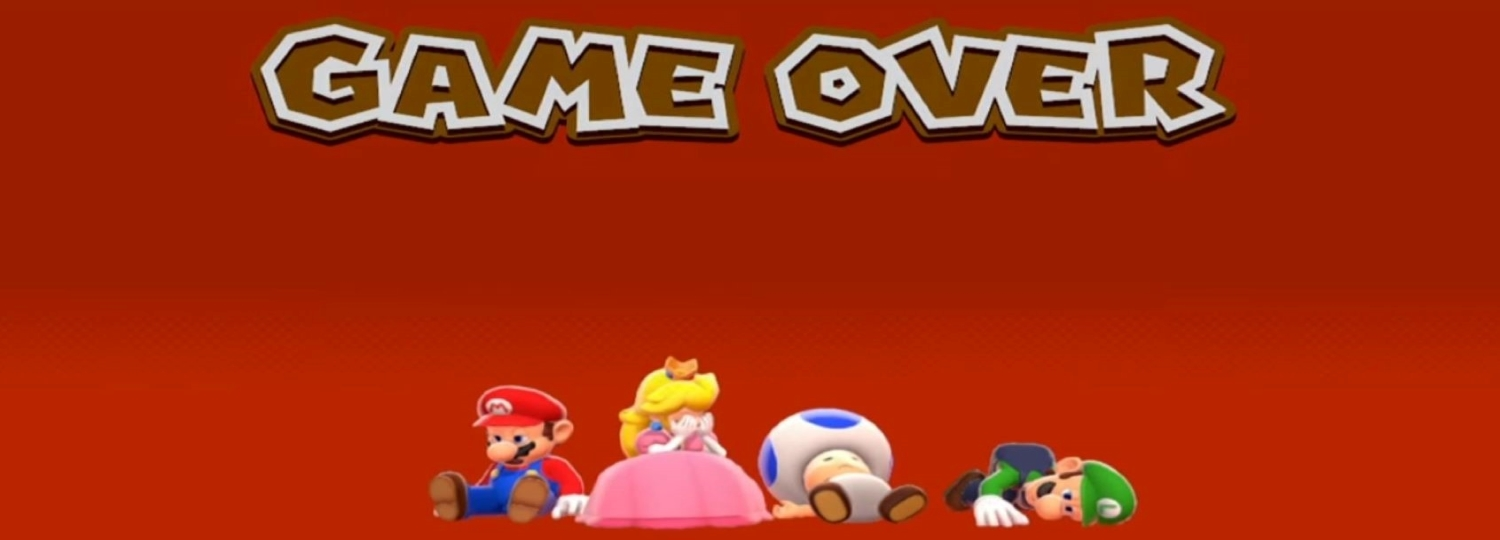
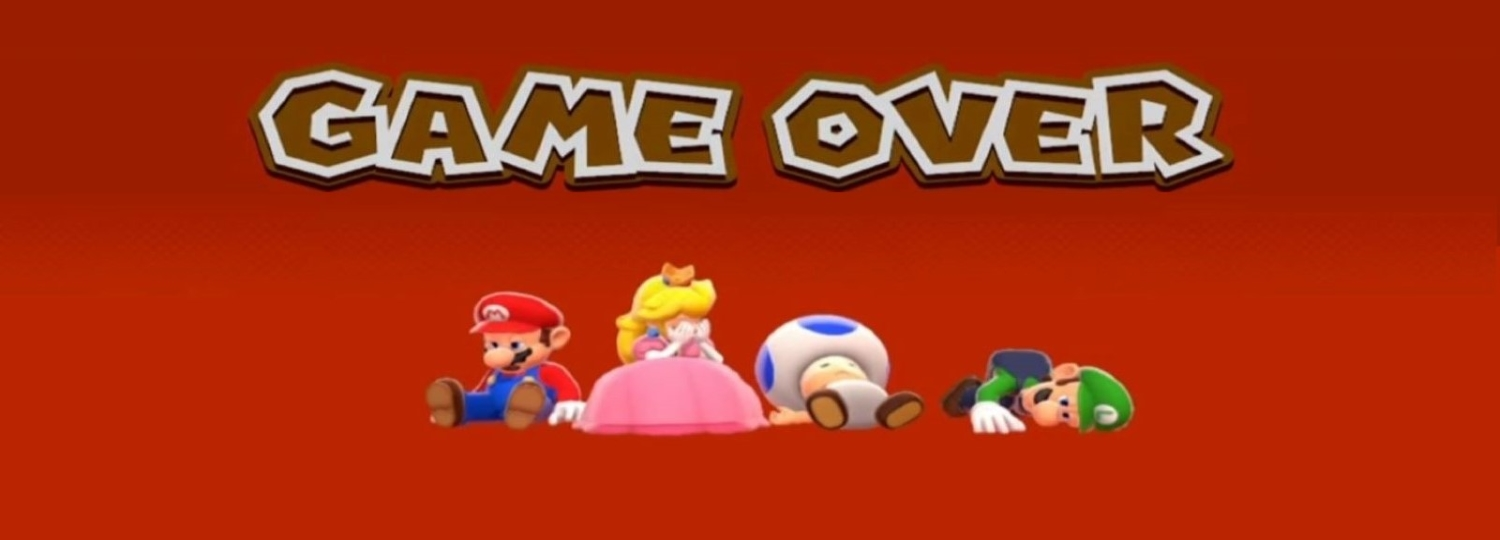
게임오버

diff --git a/project1_supermario/src/project_supermario_2/SuperMarioFrame.java b/project1_supermario/src/project_supermario_2/SuperMarioFrame.java
@@ -16,6 +16,7 @@ public class SuperMarioFrame extends JFrame {
 	ImageIcon changIcon = new ImageIcon(changImg);
 
 	private JPanel panel;
+	private JLabel label;
 
 	private JLabel bgMap;
 	private Player player;
@@ -32,32 +33,23 @@ public class SuperMarioFrame extends JFrame {
 		initData();
 		setInitLayout();
 		initListener();
-		new Thread(new Runnable() {
-
-			@Override
-			public void run() {
-				System.out.println("죽음");
-				gameOver();
-			}
-		}).start();
 	}
 
 	private void initData() {
 		panel = new JPanel();
-		player = new Player();
+		player = new Player(this);
 		monster1 = new Monster(200, 410);
 		monster2 = new Monster(700, 410);
 		monster3 = new Monster(1100, 410);
 		bgMap = new JLabel(changIcon);
 		itemBox = new Item(player);
-
+		label = new JLabel(new ImageIcon("images/gameover.jpg"));
 		setSize(1500, 540);
 		setLocation(0, 0);
 		setVisible(true);
 		setResizable(true);
 		setLocationRelativeTo(null);
 		setDefaultCloseOperation(JFrame.EXIT_ON_CLOSE);
-
 	}
 
 	private void setInitLayout() {
@@ -73,17 +65,15 @@ public class SuperMarioFrame extends JFrame {
 		bgMap.add(monster1);
 		bgMap.add(monster2);
 		bgMap.add(monster3);
+		
+	}
+	
+	public void showGameoverImage() {
+		bgMap.add(label);
+		label.setBounds(-bgMap.getX(),0, 1500, 540);
+//		System.exit(0);
 	}
 
-	public void gameOver() {
-		while (true) {
-
-			if (player.isDie || monster1.playerCrash()) {
-				System.out.println(player.isDie);
-				bgMap.setIcon(new ImageIcon("images/gameover.jpg"));
-			}
-		}
-	}
 
 	private void initListener() {
 		addKeyListener(new KeyAdapter() {
@@ -177,6 +167,7 @@ public class SuperMarioFrame extends JFrame {
 					break;
 				}
 			}
+			
 		});
 	}
 

diff --git a/project1_supermario/src/project_supermario_2/Monster.java b/project1_supermario/src/project_supermario_2/Monster.java
@@ -21,6 +21,7 @@ public class Monster extends JLabel {
 	private ImageIcon enemy;
 	Player player;
 	private BackgroundMapService mapStervice;
+	private SuperMarioFrame mContext;
 
 	public Monster(int monsterX, int monsterY) {
 		this.monsterX = monsterX;
@@ -39,12 +40,9 @@ public class Monster extends JLabel {
 		enemyL = new ImageIcon("images/enemy_left.png");
 		enemyR = new ImageIcon("images/enemy_right.png");
 		enemy = enemyR;
-		player = new Player();
 	}
 
 	private void initSetting() {
-//		monsterX = 0;
-//		monsterY = 0;
 
 		setIcon(enemyR);
 		setSize(30, 30);
@@ -64,7 +62,6 @@ public class Monster extends JLabel {
 			public void run() {
 				setIcon(enemy);
 				while (true) {
-//					System.out.println(leftCrash);
 					if (leftCrash) {
 						direction = true;
 					}
@@ -75,12 +72,12 @@ public class Monster extends JLabel {
 						setIcon(enemyR);
 						monsterX = monsterX + 10;
 						setLocation(monsterX, monsterY);
-						playerCrash();
+//						playerCrash();
 					} else {
 						setIcon(enemyL);
 						monsterX = monsterX - 10;
 						setLocation(monsterX, monsterY);
-						playerCrash();
+//						playerCrash();
 
 					}
 					try {
@@ -98,6 +95,7 @@ public class Monster extends JLabel {
 	public boolean playerCrash() {
 		if (player.getX() - monsterX < 30 && monsterX - player.getX() < 30 && player.getY() - monsterY < 50) {
 			System.out.println("게임 종료");
+			
 			return true;
 		}
 		return false;

diff --git a/project1_supermario/src/project_supermario_2/Player.java b/project1_supermario/src/project_supermario_2/Player.java
@@ -35,6 +35,7 @@ public class Player extends JLabel implements Moveable {
 	private ImageIcon playerL2;
 	private ImageIcon jumpR;
 	private ImageIcon jumpL;
+	private SuperMarioFrame mContext;
 
 	private BackgroundMapService service;
 
@@ -44,7 +45,8 @@ public class Player extends JLabel implements Moveable {
 
 	boolean isDie;
 
-	public Player() {
+	public Player(SuperMarioFrame mContext) {
+		this.mContext = mContext;
 		initObject();
 		initSetting();
 	}
@@ -191,6 +193,9 @@ public class Player extends JLabel implements Moveable {
 
 						if (y > 550) {
 							isDie = true;
+//							mContext.image = new ImageIcon("images/gameover.jpg").getImage();
+//							mContext.repaint();
+							mContext.showGameoverImage();
 						}
 						service.checkBottomColor();
 						System.out.println(y);

diff --git a/project1_supermario/src/project_supermario_2/Item.java b/project1_supermario/src/project_supermario_2/Item.java
@@ -54,7 +54,7 @@ public class Item extends JLabel {
 					e.printStackTrace();
 				}
 			}
-//			removeBox();
+			removeBox();
 		}
 		player.setCrashOk(false);
 	}
@@ -62,8 +62,8 @@ public class Item extends JLabel {
 	public void removeBox() {
 		try {
 			Thread.sleep(1000);
-//			setIcon(null);
-//			itemContext = null;
+			setIcon(null);
+			itemContext = null;
 		} catch (InterruptedException e) {
 			e.printStackTrace();
 		}
